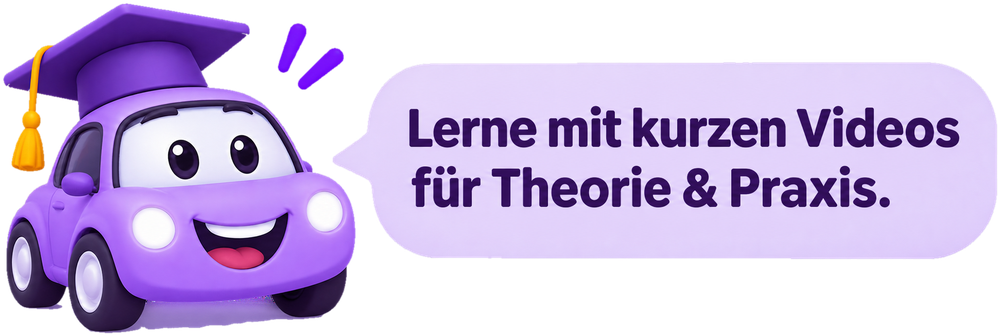
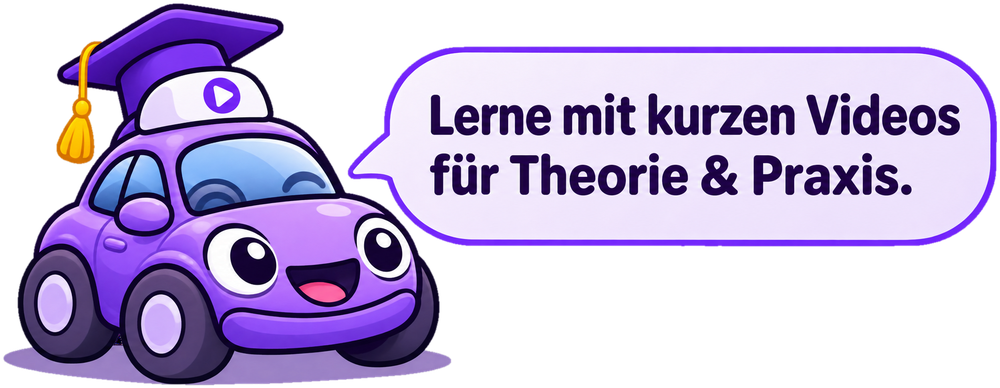
Coach: neues Bild der Figur mit Sprechblase
Claude-Session: https://claude.ai/code/session_01SLhREvuLjiee512FKLama7

diff --git a/theorie-app/src/app/(tabs)/coach.tsx b/theorie-app/src/app/(tabs)/coach.tsx
@@ -200,7 +200,7 @@ export default function Coach() {
           </View>
 
           {/* Figur mit Sprechblase */}
-          <Image source={BLASE} style={{ width: breite, height: Math.round(breite * 0.336), marginTop: 14 }} resizeMode="contain" accessibilityLabel="Lerne mit kurzen Videos für Theorie und Praxis." />
+          <Image source={BLASE} style={{ width: breite, height: Math.round(breite * 0.388), marginTop: 14 }} resizeMode="contain" accessibilityLabel="Lerne mit kurzen Videos für Theorie und Praxis." />
 
           {weiter ? (
             <View style={{ marginTop: 22 }}>
